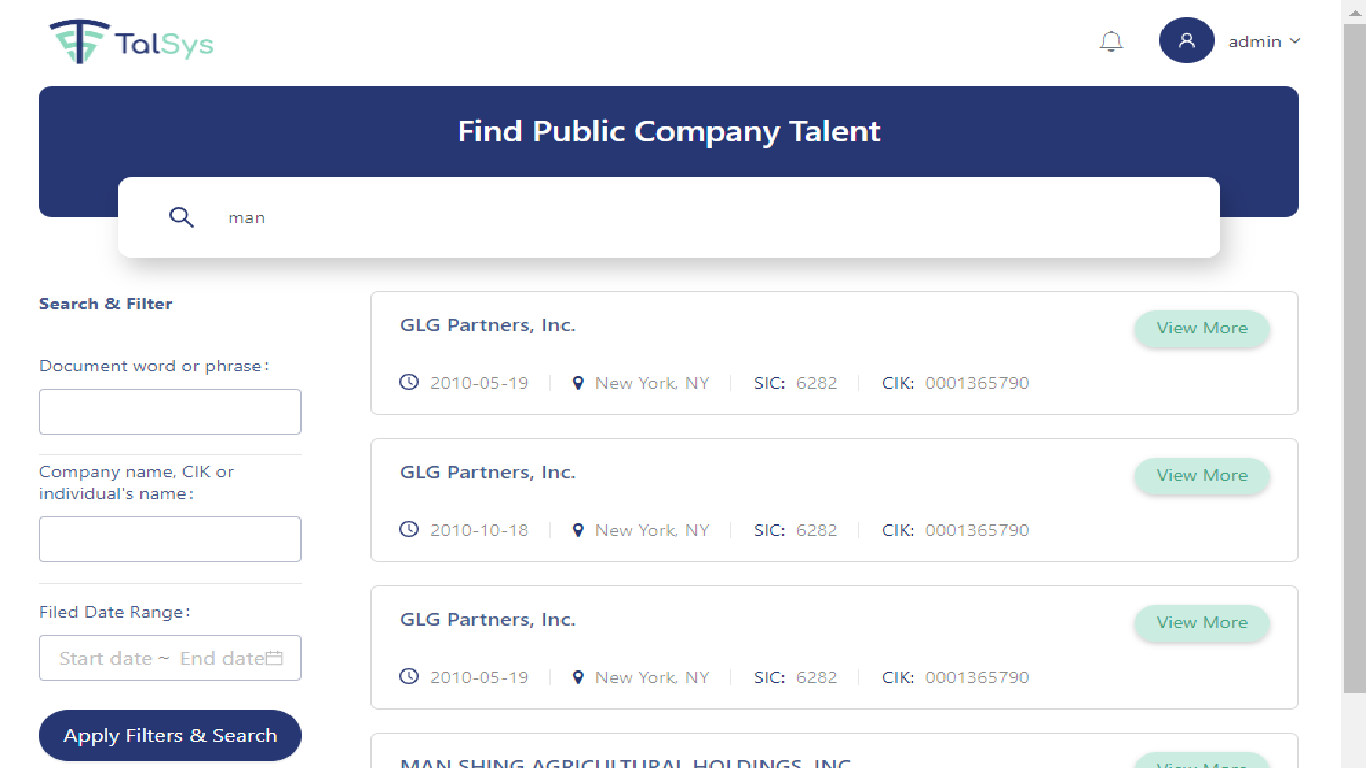
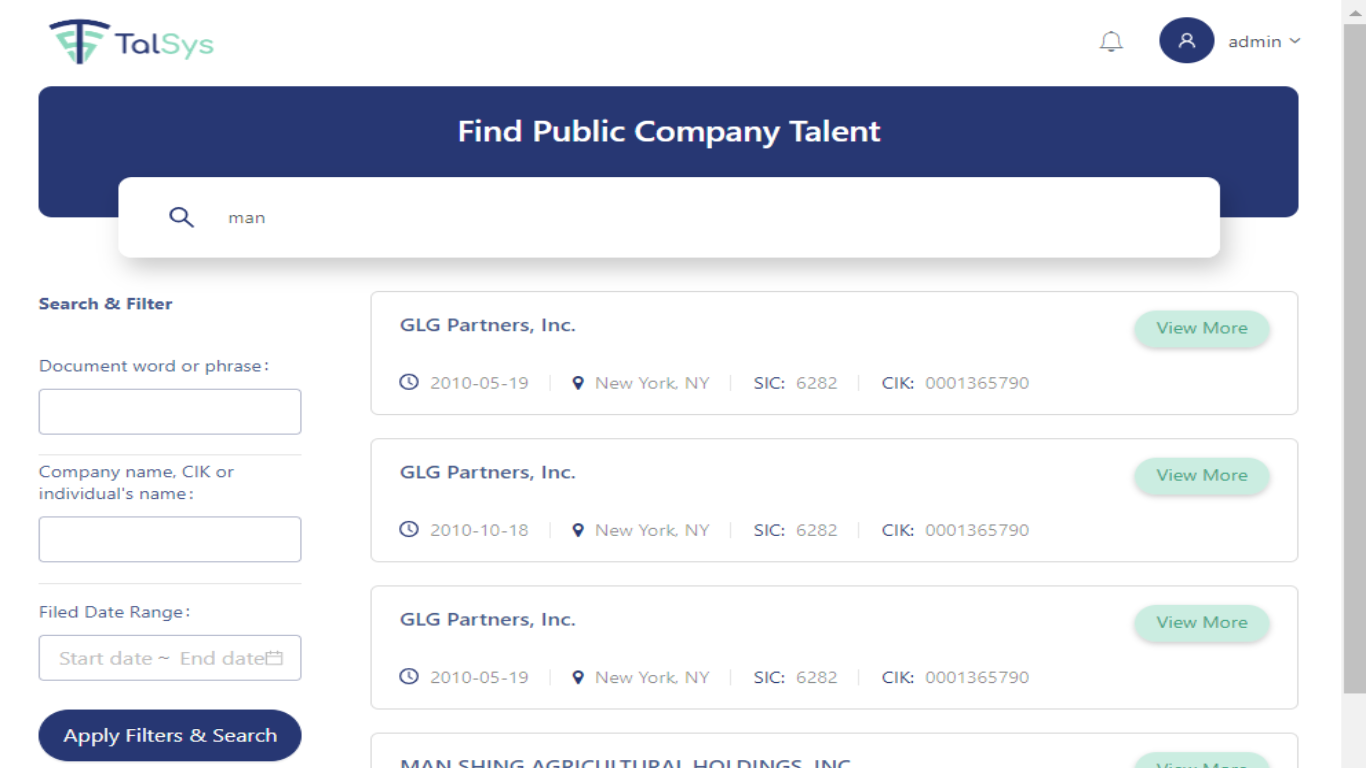
rename image

diff --git a/index.html b/index.html
@@ -262,7 +262,7 @@
                                 <i class="fa fa-plus fa-3x"></i>
                             </div>
                         </div>
-                        <img src="img/projects/Talsys.png" class="img-responsive" alt="">
+                        <img src="img/projects/talsys.png" class="img-responsive" alt="">
                     </a>
                     <div class="portfolio-caption">
                         <h4>Talsys</h4>
@@ -503,7 +503,7 @@
                             <div class="modal-body">
                                 <h2>Talsys</h2>
                                 <p class="item-intro text-muted">Edgar SEC filing finder</p>
-                                <img class="img-responsive img-centered" src="img/projects/Talsys.png" alt="">
+                                <img class="img-responsive img-centered" src="img/projects/talsys.png" alt="">
                                 <p>
                                     This website allows users to search any SEC filings with advanced search filters and smart user interface.
 
